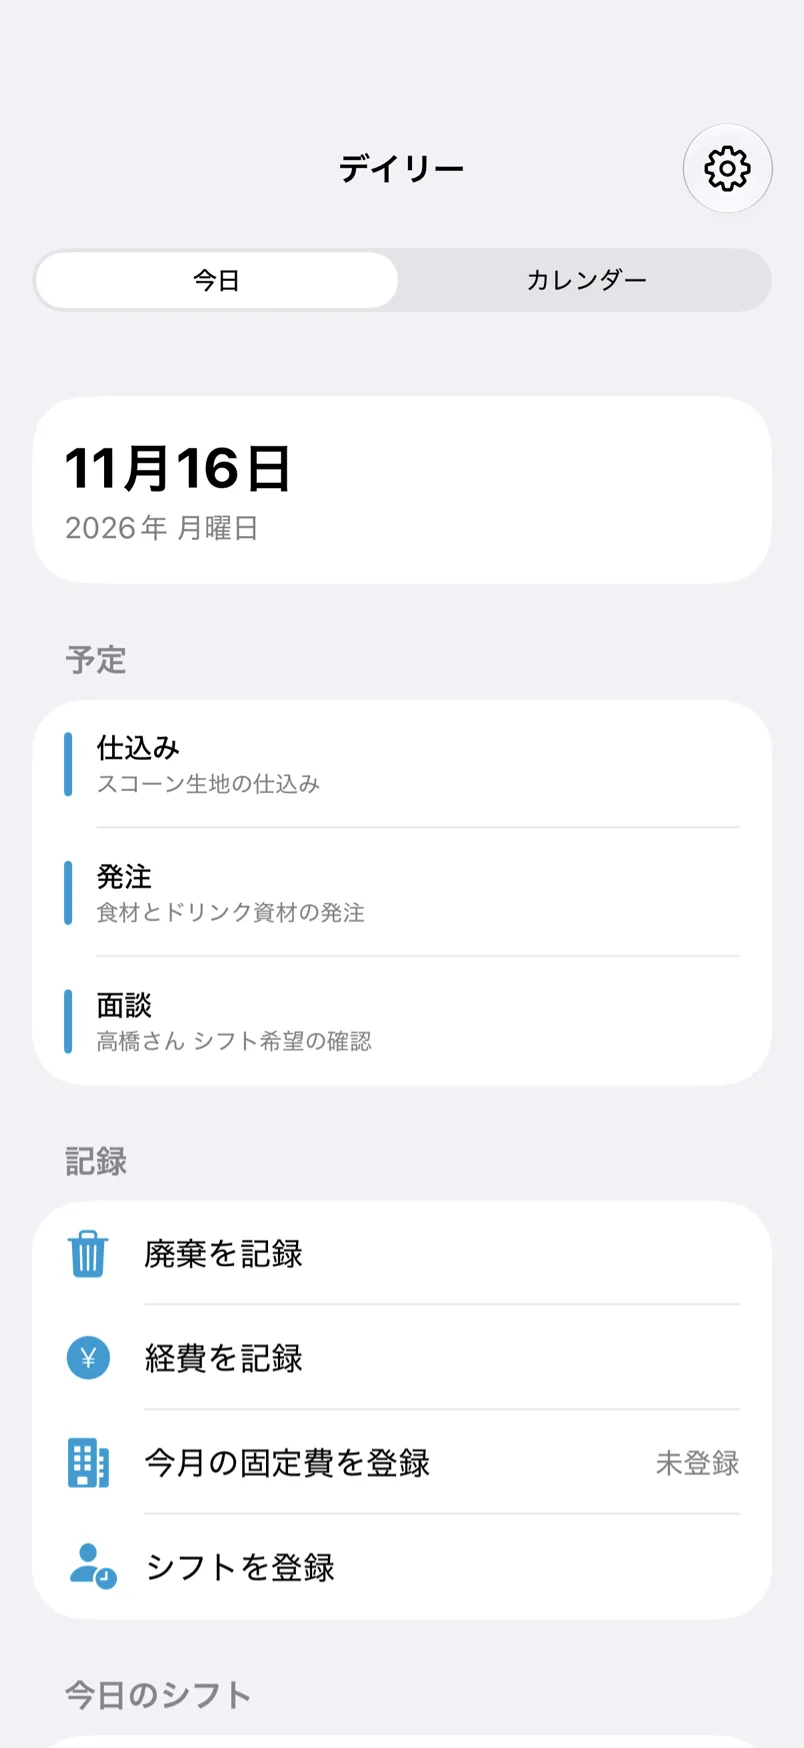
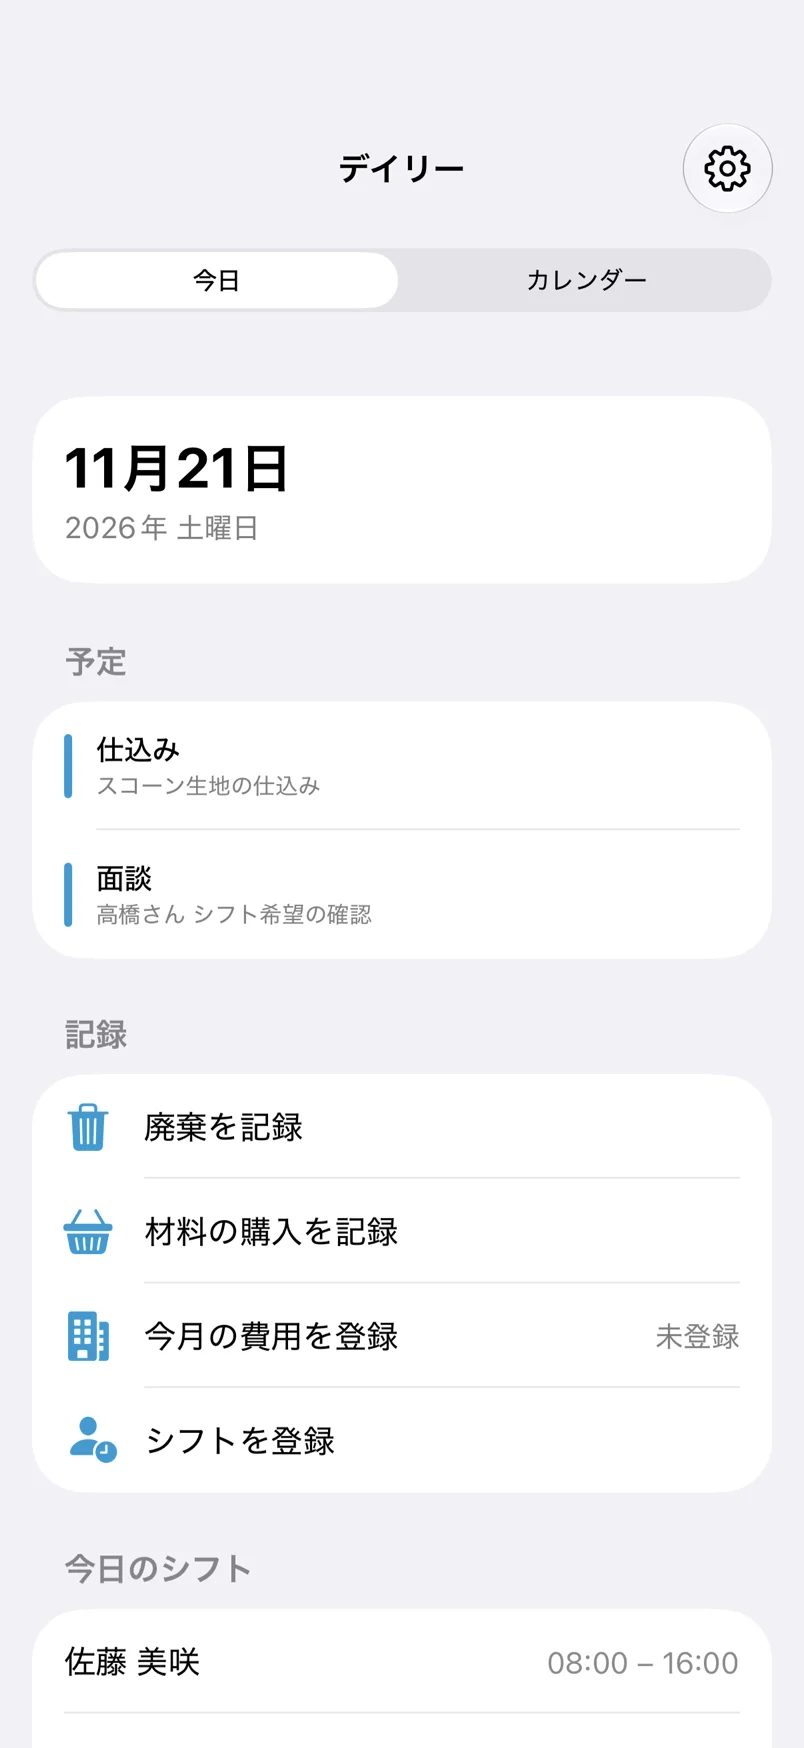
change: reposition top page around ingredients between pos and accounting software

diff --git a/index.html b/index.html
@@ -26,17 +26,17 @@ title: CafeKit
     <div class="hero__inner">
       <div class="hero__copy">
         <p class="eyebrow">カフェのための業務アプリ</p>
-        <h1 class="hero__title"><span class="phrase">カフェの裏方仕事を、</span><span class="phrase accent">スマホ1台で。</span></h1>
-        <p class="hero__lead">予定とシフトの記録から、メニューの原価計算、在庫に合わせた発注、売上と利益の管理まで。カフェのバックオフィスを、iPhone ひとつにまとめました。</p>
+        <h1 class="hero__title"><span class="phrase">1杯の原価と材料を、</span><span class="phrase accent">スマホ1台で。</span></h1>
+        <p class="hero__lead">POS と会計ソフトはそのままで。請求書を読み取れば材料の単価を更新し、原価率を超えたメニューと、明日の発注量が分かります。</p>
         <div class="hero__actions">
           <a class="button" href="#features">できることを見る<svg class="icon"><use href="#i-arrow"/></svg></a>
           <a class="button button--ghost" href="#contact">お問い合わせ</a>
         </div>
         <ul class="chips" aria-label="主な機能">
+          <li>請求書から単価を更新</li>
           <li>原価率の自動計算</li>
           <li>発注メールの送信</li>
-          <li>売上と利益のグラフ</li>
-          <li>POS レジ連携</li>
+          <li>年末の棚卸表</li>
         </ul>
       </div>
       <div class="hero__visual">
@@ -44,7 +44,7 @@ title: CafeKit
           <img class="hero__photo" src="{{ '/assets/img/hero.webp' | relative_url }}" alt="開店前のカフェのカウンターに置かれたカフェラテ" width="1024" height="1280" fetchpriority="high">
           <div class="hero__phone">
             <div class="phone phone--carousel">
-              <img class="is-active" src="{{ '/assets/img/screens/daily-today.webp' | relative_url }}" alt="デイリータブ。今日の予定・記録のボタン・シフト・経費・廃棄が並ぶ画面" width="804" height="1748">
+              <img class="is-active" src="{{ '/assets/img/screens/daily-today.webp' | relative_url }}" alt="デイリータブ。今日の予定・記録のボタン・シフト・廃棄が並ぶ画面" width="804" height="1748">
               <img src="{{ '/assets/img/screens/product-list.webp' | relative_url }}" alt="商品タブ。商品ごとに価格と原価率が並ぶ一覧" width="804" height="1748">
               <img src="{{ '/assets/img/screens/order-cart.webp' | relative_url }}" alt="発注タブ。仕入先ごとに材料と発注の数量が並ぶ画面" width="804" height="1748">
               <img src="{{ '/assets/img/screens/finance-profit.webp' | relative_url }}" alt="財務タブ。月の利益のグラフと内訳" width="804" height="1748">
@@ -61,6 +61,42 @@ title: CafeKit
     </div>
   </section>
 
+  <section class="section fit" id="fit">
+    <div class="container">
+      <header class="section__head" data-reveal>
+        <p class="eyebrow">今のやり方のまま</p>
+        <h2 class="section__title">POS と会計ソフトは、今までどおり。</h2>
+      </header>
+      <figure class="fit__figure" aria-label="POS・会計ソフト・CafeKit の関係" data-reveal>
+        <div class="fit__row">
+          <p class="fit__label">売上と支払い（今までどおり）</p>
+          <ol class="fit__flow">
+            <li class="fit__step"><div class="fit__box">POS レジ・カード・銀行</div><svg class="icon fit__arrow" aria-hidden="true"><use href="#i-arrow"/></svg></li>
+            <li class="fit__step"><div class="fit__box">会計ソフト</div></li>
+          </ol>
+        </div>
+        <div class="fit__row">
+          <ol class="fit__flow">
+            <li class="fit__step"><div class="fit__box">POS の売上・発注</div><svg class="icon fit__arrow" aria-hidden="true"><use href="#i-arrow"/></svg></li>
+            <li class="fit__step">
+              <div class="fit__box fit__box--brand">
+                <strong class="fit__name">CafeKit</strong>
+                <ul class="fit__items">
+                  <li>1杯の原価</li>
+                  <li>材料の残り</li>
+                  <li>明日の発注量</li>
+                </ul>
+              </div>
+              <svg class="icon fit__arrow" aria-hidden="true"><use href="#i-arrow"/></svg>
+            </li>
+            <li class="fit__step"><div class="fit__box">年末の棚卸表</div><svg class="icon fit__arrow" aria-hidden="true"><use href="#i-arrow"/></svg></li>
+            <li class="fit__step"><div class="fit__box">会計ソフト</div></li>
+          </ol>
+        </div>
+      </figure>
+    </div>
+  </section>
+
   <section class="section overview" id="features">
     <div class="container">
       <header class="section__head" data-reveal>
@@ -73,7 +109,7 @@ title: CafeKit
           <a class="tab-card" href="#daily">
             <span class="tab-card__icon"><svg class="icon"><use href="#i-calendar"/></svg></span>
             <span class="tab-card__name">デイリー</span>
-            <span class="tab-card__text">今日の予定とシフト、廃棄や経費の記録</span>
+            <span class="tab-card__text">今日の予定とシフト、廃棄の記録</span>
           </a>
         </li>
         <li data-reveal>
@@ -94,7 +130,7 @@ title: CafeKit
           <a class="tab-card" href="#finance">
             <span class="tab-card__icon"><svg class="icon"><use href="#i-chart"/></svg></span>
             <span class="tab-card__name">財務</span>
-            <span class="tab-card__text">自動で取り込んだ売上と、経費を差し引いた利益</span>
+            <span class="tab-card__text">自動で取り込んだ売上と、費用を差し引いた利益</span>
           </a>
         </li>
       </ol>
@@ -110,7 +146,7 @@ title: CafeKit
             <figcaption>予定のカレンダー</figcaption>
           </figure>
           <figure class="phone-shot">
-            <div class="phone"><img src="{{ '/assets/img/screens/daily-today.webp' | relative_url }}" alt="今日の予定・記録のボタン・シフト・経費・廃棄が並ぶ画面" width="804" height="1748" loading="lazy"></div>
+            <div class="phone"><img src="{{ '/assets/img/screens/daily-today.webp' | relative_url }}" alt="今日の予定・記録のボタン・シフト・廃棄が並ぶ画面" width="804" height="1748" loading="lazy"></div>
             <figcaption>今日の予定と記録</figcaption>
           </figure>
         </div>
@@ -118,10 +154,10 @@ title: CafeKit
       <div class="feature__copy" data-reveal>
         <p class="feature__label"><svg class="icon"><use href="#i-calendar"/></svg>デイリー</p>
         <h2 class="feature__title">今日やることと記録を、<br>ひとつの画面に。</h2>
-        <p class="feature__text">アプリを開けば、今日の予定と出勤するスタッフがすぐに分かります。廃棄や経費は、気づいたときにその場で記録できます。</p>
+        <p class="feature__text">アプリを開けば、今日の予定と出勤するスタッフがすぐに分かります。廃棄は、気づいたときにその場で記録できます。</p>
         <ul class="checks">
           <li><svg class="icon"><use href="#i-check"/></svg>予定はカレンダーで管理。毎日・毎週・毎月の繰り返しにも対応</li>
-          <li><svg class="icon"><use href="#i-check"/></svg>廃棄・経費・月ごとの固定費を記録</li>
+          <li><svg class="icon"><use href="#i-check"/></svg>廃棄と、毎月の費用を記録</li>
           <li><svg class="icon"><use href="#i-check"/></svg>シフトを登録すると、時給から人件費を集計</li>
         </ul>
       </div>
@@ -177,6 +213,7 @@ title: CafeKit
         <h2 class="feature__title">在庫から発注の目安を出して、<br>そのままメールで発注。</h2>
         <p class="feature__text">入荷・売上・廃棄から材料の在庫を計算し、発注の目安を出します。数量を確かめたら、送信するだけで仕入先ごとに発注メールが届きます。</p>
         <ul class="checks">
+          <li><svg class="icon"><use href="#i-check"/></svg>請求書を読み取って材料の単価を更新し、目標の原価率を超えたメニューを知らせる</li>
           <li><svg class="icon"><use href="#i-check"/></svg>廃棄率や安全在庫を見込んだ発注の目安</li>
           <li><svg class="icon"><use href="#i-check"/></svg>材料ごとの仕入先に、発注メールを振り分けて送信</li>
           <li><svg class="icon"><use href="#i-check"/></svg>入荷の確定と棚卸しで、在庫を実際の数に合わせる</li>
@@ -194,7 +231,7 @@ title: CafeKit
             <figcaption>カテゴリ別の売上</figcaption>
           </figure>
           <figure class="phone-shot">
-            <div class="phone"><img src="{{ '/assets/img/screens/finance-profit.webp' | relative_url }}" alt="月の利益のグラフと、売上・原価・人件費・経費の内訳" width="804" height="1748" loading="lazy"></div>
+            <div class="phone"><img src="{{ '/assets/img/screens/finance-profit.webp' | relative_url }}" alt="月の利益のグラフと、売上・原価・人件費・毎月の費用の内訳" width="804" height="1748" loading="lazy"></div>
             <figcaption>利益とその内訳</figcaption>
           </figure>
         </div>
@@ -202,7 +239,7 @@ title: CafeKit
       <div class="feature__copy" data-reveal>
         <p class="feature__label"><svg class="icon"><use href="#i-chart"/></svg>財務</p>
         <h2 class="feature__title">売上は自動で取り込み、<br>利益まで月ごとにグラフで。</h2>
-        <p class="feature__text">POS レジと連携すると、アプリを開いたときに売上を自動で取り込みます。カテゴリ別の売上と、原価・人件費・経費・固定費を差し引いた利益を、月ごとに確認できます。</p>
+        <p class="feature__text">POS レジと連携すると、アプリを開いたときに売上を自動で取り込みます。カテゴリ別の売上と、原価・人件費・毎月の費用を差し引いた利益を、月ごとに確認できます。</p>
         <ul class="checks">
           <li><svg class="icon"><use href="#i-check"/></svg>POS レジの商品を一度対応付ければ、次からは自動で取り込み</li>
           <li><svg class="icon"><use href="#i-check"/></svg>原価は売れた商品の材料から、人件費はシフトから自動で計算</li>
@@ -210,7 +247,7 @@ title: CafeKit
         <p class="feature__note">連携していない POS レジの売上も、CSV で取り込めます。</p>
         <div class="callout">
           <span class="callout__icon"><svg class="icon"><use href="#i-download"/></svg></span>
-          <p><strong>確定申告の準備に、まとめて書き出し</strong>売上・仕入・経費・人件費・棚卸を、年ごと・月ごとにファイルに書き出せます。お使いの会計ソフトや税理士さん、AI アシスタントにそのまま渡せます。</p>
+          <p><strong>年末の棚卸表を書き出し</strong>12/31 時点の材料の数量と金額を書き出せます。合計は、決算書の期末商品棚卸高に入れられます。</p>
         </div>
       </div>
     </div>
@@ -239,7 +276,7 @@ title: CafeKit
         <li class="timeline__item" data-reveal>
           <span class="timeline__icon"><svg class="icon"><use href="#i-cup"/></svg></span>
           <p class="timeline__when">営業中</p>
-          <p class="timeline__what">廃棄や経費を、その場で記録</p>
+          <p class="timeline__what">廃棄を、その場で記録</p>
         </li>
         <li class="timeline__item" data-reveal>
           <span class="timeline__icon"><svg class="icon"><use href="#i-moon"/></svg></span>

diff --git a/assets/css/site.css b/assets/css/site.css
@@ -515,6 +515,95 @@ ol {
   }
 }
 
+/* Fit */
+
+.fit__figure {
+  display: grid;
+  gap: 32px;
+  max-width: 960px;
+  margin-inline: auto;
+}
+
+.fit__label {
+  margin-bottom: 12px;
+  color: var(--muted);
+  font-size: 0.88rem;
+  font-weight: 700;
+}
+
+.fit__flow {
+  display: flex;
+  align-items: stretch;
+  gap: 12px;
+}
+
+.fit__step {
+  display: flex;
+  flex: 1 1 0;
+  align-items: center;
+  gap: 12px;
+  min-width: 0;
+}
+
+.fit__box {
+  display: grid;
+  flex: 1;
+  align-content: center;
+  align-self: stretch;
+  gap: 8px;
+  padding: 20px 16px;
+  border: 1px solid var(--line);
+  border-radius: var(--radius);
+  background: var(--surface);
+  color: var(--ink);
+  font-weight: 700;
+  line-height: 1.6;
+  text-align: center;
+  word-break: auto-phrase;
+}
+
+.fit__box--brand {
+  border: 2px solid var(--brand);
+  background: var(--brand-tint);
+}
+
+.fit__name {
+  color: var(--brand-strong);
+  font-size: 1.15rem;
+  font-weight: 800;
+}
+
+.fit__items {
+  display: grid;
+  gap: 2px;
+  color: var(--muted);
+  font-size: 0.88rem;
+}
+
+.fit__arrow {
+  color: var(--muted);
+}
+
+@media (max-width: 860px) {
+  .fit__flow,
+  .fit__step {
+    flex-direction: column;
+  }
+
+  .fit__step {
+    width: 100%;
+  }
+
+  .fit__box {
+    align-self: auto;
+    width: 100%;
+  }
+
+  .fit__arrow {
+    transform: rotate(90deg);
+  }
+}
+
 /* Overview */
 
 .overview {

diff --git a/privacy-policy/index.md b/privacy-policy/index.md
@@ -14,7 +14,7 @@ Ryosuke Suzaki（以下「運営者」）は、カフェ向け業務アプリ「
 | 店舗情報 | 店舗名、メールアドレス、電話番号 |
 | スタッフ | 名前、雇用形態、時給などの契約条件、シフト、メモ |
 | 仕入先 | 名称、メールアドレス、電話番号 |
-| 業務データ | 商品・材料・作り方、売上、経費・固定費、廃棄、在庫・棚卸し、発注の履歴、予定 |
+| 業務データ | 商品・材料・作り方、売上、毎月の費用、廃棄、在庫・棚卸し、発注の履歴、予定 |
 | 自由入力 | 発注の備考、予定・廃棄・スタッフのメモなど、利用者が入力した文章 |
 | 画像・ファイル | 商品画像、読み取りのために選択した写真・ファイル |
 | POS 連携 | スマレジの契約 ID、取引のデータ、取り込んだ売上の CSV |
